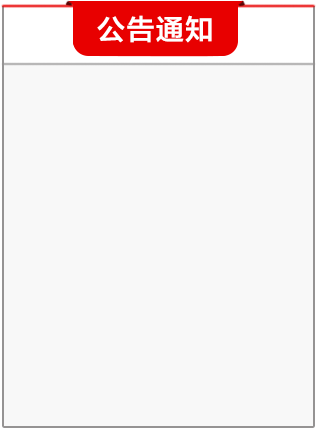
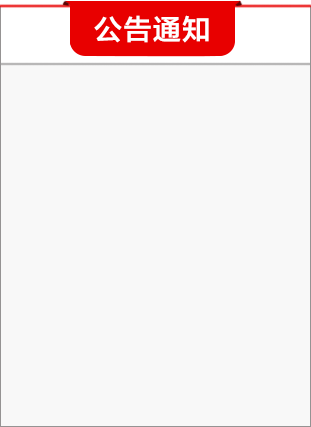
20180804换首页背景图

Changed region(s): [[0.0, 0.0, 1.0, 1.0], [0.2026, 0.0, 0.7814, 0.1522]]

diff --git a/advanced/frontend/web/front/css/index.css b/advanced/frontend/web/front/css/index.css
@@ -6,7 +6,7 @@
 /*统战新闻 时政要闻*/
 /* .news-box1 .tzxw,.news-box1 .szyw{height: 158px;width: 563px;border:2px solid red;border-left: 4px solid red;border-radius: 2px;margin-bottom: 15px;position: relative;;overflow: hidden}
 .tzxw  .theme-box,.szyw  .theme-box{width: 60px;height: 147px;margin-top: 5.5px;margin-left: -1px;} */
-.tzxw  .news,.szyw  .news{width: 525px;height: 158px;position: relative;box-sizing: border-box;}
+.tzxw  .news,.szyw  .news{width: 525px;height: 155px;position: relative;box-sizing: border-box;overflow: hidden;}
 
 /* .tzxw  .news{padding: 15px 28px;} */
 .szyw  .news{padding: 13px;padding-left: 50px;}
@@ -24,7 +24,7 @@
 .tzxw  .theme-box, .szyw  .theme-box {
     width: 60px;
     height: 147px;
-    margin-top: 5.5px;
+    margin-top: 3px;
     margin-left: 0px;
     position: absolute;
     left: -30px;
@@ -51,7 +51,7 @@
 .news-box2{height: 321px;}
 .news-box2  .news-img-box img{width: 684px;height: 321px;}
 .news-box2  .news-items{width: 486px;height: 321px;}
-.news-box2  .news-items  .item{width: 486px;height: 96px;margin-bottom: 18px;box-sizing: border-box;padding: 1px 15px;background: url(../img/index/news_item_unselected.png) no-repeat !important;background-size: 486px 95px; cursor: pointer;}
+.news-box2  .news-items  .item{width: 486px;height: 95px;overflow: hidden;margin-bottom: 18px;box-sizing: border-box;padding: 1px 15px;background: url(../img/index/news_item_unselected.png) no-repeat !important;background-size: 486px 95px; cursor: pointer;}
 .news-box2  .news-items  .item h4{font-size: 22px;font-weight: 500;width: 460px;}
 .news-box2  .news-items  .item p{line-height: 22px;display: -webkit-box;-webkit-box-orient: vertical;-webkit-line-clamp: 2;overflow: hidden;width: 460px;}
 .news-box2  .news-items  .selected{background: url(../img/index/news_item_selected.png) no-repeat !important;}
@@ -61,8 +61,8 @@
 a.hotnews{max-width:500px;word-wrap: break-word;overflow: hidden;text-overflow: ellipsis;white-space: nowrap;}
 
 .news-box3{height: 430px;margin-top: 15px;}
-.news-box3  .news-list-box{width: 847px;height: 430px;background: url(../img/index/news_list_box_bg.png) center no-repeat !important;background-size: 847px 430px;position: relative;overflow: hidden;}
-.news-box3  .ggtz-box{width: 317px;height: 430px;background: url(../img/index/news_ggtz_bg.png) center no-repeat !important;background-size: 317px 430px;position: relative;overflow: hidden;}
+.news-box3  .news-list-box{width: 850px;height: 428px;background-color:#f8f8f8;border-radius: 3px;/* background: url(../img/index/news_list_box_bg.png) center no-repeat !important;background-size: 847px 430px; */position: relative;overflow: hidden;}
+.news-box3  .ggtz-box{border-radius: 8px;width: 317px;height: 430px;margin-top: -2px;background: url(../img/index/news_ggtz_bg.png) center no-repeat !important;background-size: 317px 430px;position: relative;overflow: hidden;}
 
 .news-box3  .news-list-box  .news-cates{padding: 10px;}
 .news-box3  .news-list-box  .news-cates  .cate{height: 47px;line-height: 47px;width: 207px;text-align: center;font-size: 20px;font-weight: 700;color: #000;margin-bottom: 5px;background: url(../img/index/news_list_unselected.png) center no-repeat !important;cursor: pointer;}
@@ -77,7 +77,7 @@ a.hotnews{max-width:500px;word-wrap: break-word;overflow: hidden;text-overflow: 
 .news-list a.news-more{float: right;color: #373737; position: absolute;right: 25px;bottom: 15px;}
 .news-list a.articledetail{color:red;display:inline-block;margin-left:20px;}
 
-.ggtz-box ul{list-style: disc inside;margin-top: 78px;padding: 0 15px;}
+.ggtz-box ul{list-style: none;margin-top: 78px;padding: 0 15px;}
 .ggtz-box ul li{margin-bottom: 20px;line-height: 25px;display: -webkit-box;-webkit-box-orient: vertical;-webkit-line-clamp: 1;overflow: hidden;text-indent: 20px;background-position:0px 10px;background-image: url(../img/index/news_list_icon.png);background-size: 8px 12px;background-repeat:no-repeat;background-position:0px 7px;}
 /*教育基地   快捷入口*/
 .news-box4{height: 370px;margin-top: 40px;}
@@ -88,7 +88,7 @@ a.hotnews{max-width:500px;word-wrap: break-word;overflow: hidden;text-overflow: 
 .edu-box .edu-list li img{width: 250px;height: 148px;}
 .edu-box .edu-list li p{text-align: center;font-size: 16px;font-weight: bold;color: #000000;}
 
-.news-box4 .quickbtn-box{width: 317px;height: 370px;background: url(../img/index/quickbtn_box_bg.png) center no-repeat !important;background-size: 317px 370px;box-sizing: border-box;padding-top: 76px;padding-left: 14px;}
+.news-box4 .quickbtn-box{width: 317px;height: 370px;background: url(../img/index/quickbtn_box_bg.png) center no-repeat !important;background-size: 317px 370px;box-sizing: border-box;padding-top: 76px;padding-left: 14px;border-radius: 15px;}
 .quickbtn-box a{display:inline-block;margin-bottom:8px;}
 /*视讯社院*/
 .video-banner{background: url(../img/index/sxsy_bg.jpg) center no-repeat;background-size: 1200px 150px ;height: 150px;margin-top: 30px;position: relative;}
@@ -100,7 +100,7 @@ a.hotnews{max-width:500px;word-wrap: break-word;overflow: hidden;text-overflow: 
 .video-list-box .video-item a p{position: absolute;left:0px;right:0px;bottom: 0px;text-align: center;color: #FFFFFF;height: 30px;line-height: 30px;background: #333333;opacity: 0.6;overflow: hidden;text-overflow: ellipsis;white-space: nowrap;}
 .video-list-box .video-item .video-btn{position: absolute;left: 50%;top: 50%;height: 52px;width: 52px;margin-top: -26px;margin-left: -26px;background: url(../img/index/video-btn.png) center no-repeat;}
 
-#scroll_div{overflow: hidden;height: 225px;box-sizing: border-box;white-space: nowrap;border: 2px solid #b8b7b7;border-radius: 2px;padding: 10px;}
+#scroll_div{overflow: hidden;height: 225px;box-sizing: border-box;white-space: nowrap;border-radius: 2px;padding: 10px;}
 #video-box{overflow: hidden;height: 185px;margin-top: 25px;white-space: nowrap;}
 
 /*名师堂*/

diff --git a/advanced/frontend/web/front/css/site_v2.css b/advanced/frontend/web/front/css/site_v2.css
@@ -1,9 +1,7 @@
 *{margin: 0;padding: 0;font-size: 14px;font-family: "微软雅黑";}
 body{background: -moz-linear-gradient(top, #d2d1d7 0%, #ffffff 100%);background: -webkit-gradient(linear, left top, left bottom, color-stop(0%,#d2d1d7), color-stop(100%,#ffffff));background: -webkit-linear-gradient(top, #d2d1d7 0%,#ffffff 100%);background: -o-linear-gradient(top, #d2d1d7 0%,#ffffff 100%);background: -ms-linear-gradient(top, #d2d1d7 0%,#ffffff 100%);background: linear-gradient(to bottom, #d2d1d7 0%,#ffffff 100%);}
-a{text-decoration: none;}
-a:-webkit-any-link {
-    color: -webkit-link;
-    cursor: pointer;
+
+a,a:focus,a:hover {
     text-decoration: none;
 }
 ul{list-style: none;}
@@ -13,6 +11,19 @@ input:-webkit-autofill,input:-webkit-autofill:hover,input:-webkit-autofill:focus
 .left{float: left;}
 .right{float: right;}
 .text-over{word-wrap: break-word;overflow: hidden;text-overflow: ellipsis;white-space: nowrap;}
+
+.p-after:after{
+    content: "..."; 
+    position: absolute; 
+    bottom: 15px; 
+    right: 12px; 
+    padding-left: 40px;
+    background: -webkit-linear-gradient(left, transparent, #fff 55%);
+    background: -moz-linear-gradient(left, transparent, #fff 55%);
+    background: -o-linear-gradient(left, transparent, #fff 55%);
+    background: linear-gradient(to right, transparent, #fff 55%);
+}
+
 /*头部*/
 header.header{width: 100%;min-width: 1200px;max-width: 2000px;height: 318px;background-size: 2000px 318px;background: url(../img/index/top_v4_bg.jpg) no-repeat center !important;position: relative;display: block;}
 header.header>.toole-logo-box,header.header>.nav{width: 1200px;display: block;margin: 0 auto;position: relative;padding: 5px 15px;box-sizing: border-box;}
@@ -28,7 +39,7 @@ header.header>.toole-logo-box>.tools{display: block;position: relative;height: 2
 .search-text button,.search-text button:active,.search-text button:focus,.search-text button:visited{width: 40px;height: 27px;background: none;border: none;outline: none;float: left;}
 .tools span,.tools a,.login-reg-box{color: #FFFFFF;}
 
-header.header>.nav{height: 56px;margin-top: 15px;}
+header.header>.nav{height: 56px;margin-top: 21px;}
 .nav ul {width: 1200px;margin: 0 auto;position: relative;box-sizing: border-box;}
 header.header .nav li{position: relative;float: left;display: inline-block;width: 100px;text-align: center;height: 46px;line-height: 46px;}
 header.header .nav li a{display: inline-block;width: 100px;font-size: 16px;font-weight: bold;color: #fff;text-align: center;}

diff --git a/advanced/frontend/web/front/css/whxy.css b/advanced/frontend/web/front/css/whxy.css
@@ -15,14 +15,14 @@ section img.whjl-banner{
 .whxy-jj img.title-img,.whxy-whjl img.title-img,.whxy-whlt img.title-img,.whxy-whgs img.title-img,.whxy-wxsh img.title-img{width:132px;float:left;margin-right:20px;}
 .whxy-news .whxy-whjl,.whxy-news .whxy-whlt,.whxy-news .whxy-whgs,.whxy-news .whxy-wxsh{width:50%;float:left;overflow:hidden;*zoom: 1;}
 .whxy-whjl h2,.whxy-whlt h2,.whxy-whjl p,.whxy-whlt p,.news-intro p{display: -webkit-box;-webkit-box-orient: vertical;-webkit-line-clamp: 2;overflow: hidden;color:#595959;}
-.whxy-whjl h2,.whxy-whlt h2{text-align:left;font-size:20px;color:#242424}
-.whxy-whjl p,.whxy-whlt p{color:#3B3B3B;margin-bottom:42px;line-height: 1.7em;}
+.whxy-whjl h2,.whxy-whlt h2{text-align:left;font-size:20px;color:#242424;height:52px;overflow: hidden;}
+.whxy-whjl p,.whxy-whlt p{color:#3B3B3B;margin-bottom:42px;line-height: 1.7em;height:44px;overflow: hidden;}
 
 .whxy-whjl ul,.whxy-whlt ul{list-style:disc  inside}
 .whxy-whjl li,.whxy-whlt li{margin-bottom:15px;word-wrap: break-word;overflow: hidden;text-overflow: ellipsis;white-space: nowrap;box-sizing: border-box;}
 
 .whxy-whgs ul,.whxy-wxsh ul{list-style:none}
-.whxy-whgs ul li,.whxy-wxsh ul li{height:85px;width:433px;;position:relative;margin-top:10px;}
+.whxy-whgs ul li,.whxy-wxsh ul li{height:85px;width:433px;;position:relative;margin-top:10px;overflow: hidden;}
 .whxy-whgs ul li:first-child,.whxy-wxsh ul li:first-child{margin-top:0px;}
 .news-img-box,.news-intro{float:left;}
 .news-img-box{width:135px;height:85px;border:1px solid #ccc}

diff --git a/advanced/frontend/views/site/index.php b/advanced/frontend/views/site/index.php
@@ -82,7 +82,7 @@ $this->title = "首页_".$params['webCfgs']['siteName'];
 			<div class="cate" data-target-id="jxpx">教学培训</div>
 			</a>
 			<a class="news-more" href="<?php echo Url::to(['news/list-by-catecode','code'=>'mmst']);?>">
-			<div class="cate" data-target-id="mmst">名师堂</div>
+			<div class="cate" data-target-id="mmst">名&nbsp;&nbsp;师&nbsp;&nbsp;堂</div>
 			</a>
 			<a class="news-more" href="<?php echo Url::to(['news/list-by-catecode','code'=>'whjl']);?>">
 			<div class="cate" data-target-id="whjl">文化交流</div>
@@ -105,7 +105,7 @@ $this->title = "首页_".$params['webCfgs']['siteName'];
 			<div class="news-hot">
 				<?php if(!empty($data['syxw'])):?>
 				<h4 class="text-over"><a href="<?php echo Url::to(['news/detail','id'=>$data['syxw'][0]['id']]);?>" title="<?php echo $data['syxw'][0]['title'];?>"><?php echo $data['syxw'][0]['title'];?></a></h4>
-				<p><?php echo mb_substr($data['syxw'][0]['summary'],0,108,'utf-8');?><a class="articledetail" href="<?php echo Url::to(['news/detail','id'=>$data['syxw'][0]['id']]);?>">(详情)</a></p>
+				<p><?php echo mb_substr($data['syxw'][0]['summary'],0,106,'utf-8');?><a class="articledetail" href="<?php echo Url::to(['news/detail','id'=>$data['syxw'][0]['id']]);?>">(详情)</a></p>
 				<?php endif;?>
 			</div>
 			<ul>
@@ -122,7 +122,7 @@ $this->title = "首页_".$params['webCfgs']['siteName'];
 			<div class="news-hot">
 				<?php if(!empty($data['jxpx'])):?>
 				<h4 class="text-over"><a href="<?php echo Url::to(['news/detail','id'=>$data['jxpx'][0]['id']]);?>" title="<?php echo $data['jxpx'][0]['title'];?>"><?php echo $data['jxpx'][0]['title'];?></a></h4>
-				<p><?php echo mb_substr($data['jxpx'][0]['summary'],0,108,'utf-8');?><a class="articledetail" href="<?php echo Url::to(['news/detail','id'=>$data['jxpx'][0]['id']]);?>">(详情)</a></p>
+				<p><?php echo mb_substr($data['jxpx'][0]['summary'],0,106,'utf-8');?><a class="articledetail" href="<?php echo Url::to(['news/detail','id'=>$data['jxpx'][0]['id']]);?>">(详情)</a></p>
 				<?php endif;?>
 			</div>
 			<ul>
@@ -160,7 +160,7 @@ $this->title = "首页_".$params['webCfgs']['siteName'];
 			<div class="news-hot">
 				<?php if(!empty($data['kydt'])):?>
 				<h4 class="text-over"><a href="<?php echo Url::to(['news/detail','id'=>$data['kydt'][0]['id']]);?>" title="<?php echo $data['kydt'][0]['title'];?>"><?php echo $data['kydt'][0]['title'];?></a></h4>
-				<p><?php echo mb_substr($data['kydt'][0]['summary'],0,108,'utf-8');?><a class="articledetail" href="<?php echo Url::to(['news/detail','id'=>$data['kydt'][0]['id']]);?>">(详情)</a></p>
+				<p><?php echo mb_substr($data['kydt'][0]['summary'],0,106,'utf-8');?><a class="articledetail" href="<?php echo Url::to(['news/detail','id'=>$data['kydt'][0]['id']]);?>">(详情)</a></p>
 				<?php endif;?>
 			</div>
 			<ul>
@@ -177,7 +177,7 @@ $this->title = "首页_".$params['webCfgs']['siteName'];
 			<div class="news-hot">
 				<?php if(!empty($data['dqxz'])):?>
 				<h4 class="text-over"><a href="<?php echo Url::to(['news/detail','id'=>$data['dqxz'][0]['id']]);?>" title="<?php echo $data['dqxz'][0]['title'];?>"><?php echo $data['dqxz'][0]['title'];?></a></h4>
-				<p><?php echo mb_substr($data['dqxz'][0]['summary'],0,108,'utf-8');?><a class="articledetail" href="<?php echo Url::to(['news/detail','id'=>$data['dqxz'][0]['id']]);?>">(详情)</a></p>
+				<p><?php echo mb_substr($data['dqxz'][0]['summary'],0,106,'utf-8');?><a class="articledetail" href="<?php echo Url::to(['news/detail','id'=>$data['dqxz'][0]['id']]);?>">(详情)</a></p>
 				<?php endif;?>
 			</div>
 			<ul>
@@ -194,7 +194,7 @@ $this->title = "首页_".$params['webCfgs']['siteName'];
 			<div class="news-hot">
 				<?php if(!empty($data['whjl'])):?>
 				<h4 class="text-over"><a href="<?php echo Url::to(['news/detail','id'=>$data['whjl'][0]['id']]);?>" title="<?php echo $data['whjl'][0]['title'];?>"><?php echo $data['whjl'][0]['title'];?></a></h4>
-				<p><?php echo mb_substr($data['whjl'][0]['summary'],0,108,'utf-8');?><a class="articledetail" href="<?php echo Url::to(['news/detail','id'=>$data['whjl'][0]['id']]);?>">(详情)</a></p>
+				<p><?php echo mb_substr($data['whjl'][0]['summary'],0,106,'utf-8');?><a class="articledetail" href="<?php echo Url::to(['news/detail','id'=>$data['whjl'][0]['id']]);?>">(详情)</a></p>
 				<?php endif;?>
 			</div>
 			<ul>
@@ -212,7 +212,7 @@ $this->title = "首页_".$params['webCfgs']['siteName'];
 			<div class="news-hot">
 				<?php if(!empty($data['xyyd'])):?>
 				<h4 class="text-over"><a href="<?php echo Url::to(['news/detail','id'=>$data['xyyd'][0]['id']]);?>" title="<?php echo $data['xyyd'][0]['title'];?>"><?php echo $data['xyyd'][0]['title'];?></a></h4>
-				<p><?php echo mb_substr($data['xyyd'][0]['summary'],0,108,'utf-8');?><a class="articledetail" href="<?php echo Url::to(['news/detail','id'=>$data['xyyd'][0]['id']]);?>">(详情)</a></p>
+				<p><?php echo mb_substr($data['xyyd'][0]['summary'],0,106,'utf-8');?><a class="articledetail" href="<?php echo Url::to(['news/detail','id'=>$data['xyyd'][0]['id']]);?>">(详情)</a></p>
 				<?php endif;?>
 			</div>
 			<ul>
@@ -230,7 +230,7 @@ $this->title = "首页_".$params['webCfgs']['siteName'];
 			<div class="news-hot">
 				<?php if(!empty($data['zkzx'])):?>
 				<h4 class="text-over"><a href="<?php echo Url::to(['news/detail','id'=>$data['zkzx'][0]['id']]);?>" title="<?php echo $data['zkzx'][0]['title'];?>"><?php echo $data['zkzx'][0]['title'];?></a></h4>
-				<p><?php echo mb_substr($data['zkzx'][0]['summary'],0,108,'utf-8');?><a class="articledetail" href="<?php echo Url::to(['news/detail','id'=>$data['zkzx'][0]['id']]);?>">(详情)</a></p>
+				<p><?php echo mb_substr($data['zkzx'][0]['summary'],0,106,'utf-8');?><a class="articledetail" href="<?php echo Url::to(['news/detail','id'=>$data['zkzx'][0]['id']]);?>">(详情)</a></p>
 				<?php endif;?>
 			</div>
 			<ul>
